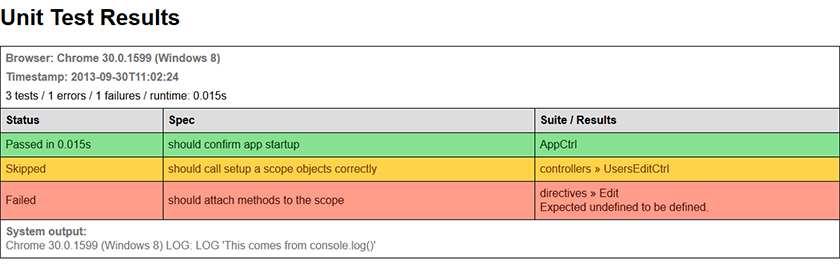
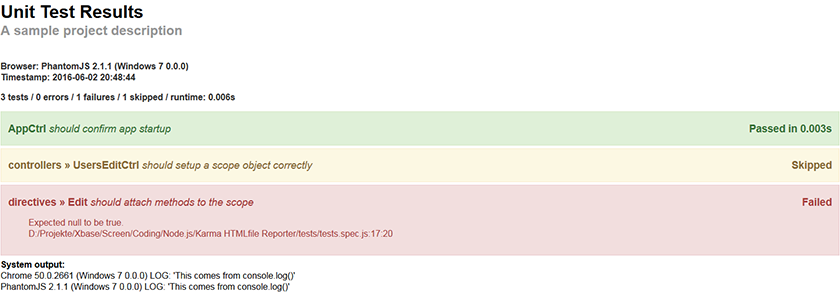
Updated Karma HTMLfile reporter

diff --git a/karma-htmlfile-reporter/units.html b/karma-htmlfile-reporter/units.html
@@ -1,155 +1,97 @@
 <!DOCTYPE html>
 <html>
-	<head>
-		<meta charset="utf-8" />
-		<title>Unit Test Results</title>
-		<style type="text/css">
-			html, body {
-				font-family:Arial,sans-serif;
-				margin:0;
-				padding:0;
-			}
-			
-			body {
-				padding:10px 40px;
-			}
-			
-			table {
-				width:100%;
-				margin-bottom:20px;
-			}
-			
-			tr.header {
-				background:#ddd;
-				font-weight:bold;
-				border-bottom:none;
-			}
-
-			td {
-				padding:7px;
-				border-top:none;
-				border-left:1px black solid;
-				border-bottom:1px black solid;
-				border-right:none;
-			}
-			
-			tr.pass td {
-				color:#003b07;
-				background:#86e191;
-			}
-			
-			tr.skip td {
-				color:#7d3a00;
-				background:#ffd24a;
-			}
-			
-			tr.fail td {
-				color:#5e0e00;
-				background:#ff9c8a;
-			}
-			
-			tr:first-child td {
-				border-top:1px black solid;
-			}
-			
-			td:last-child {
-				border-right:1px black solid;
-			}
-			
-			tr.overview {
-				font-weight:bold;
-				color:#777;
-			}
-			
-			tr.overview td {
-				padding-bottom:0px;
-				border-bottom:none;
-			}
-			
-			tr.system-out td {
-				color:#777;
-			}
-			
-			hr {
-				height:2px;
-				margin:30px 0;
-				background:#000;
-				border:none;
-			}
-		</style>
-	</head>
-
-	<body>
-		<h1>Unit Test Results</h1>
-		<table border="0" cellpadding="0" cellspacing="0">
-			<tr class="overview">
-				<td colspan="3" title="Mozilla/5.0 (Windows NT 6.2; WOW64) AppleWebKit/537.36 (KHTML, like Gecko) Chrome/30.0.1599.66 Safari/537.36">Browser: Chrome 30.0.1599 (Windows 8)</td>
-			</tr>
-			<tr class="overview">
-				<td colspan="3">Timestamp: 2013-09-30T11:02:24</td>
-			</tr>
-			<tr>
-				<td colspan="3">3 tests / 1 errors / 1 failures / runtime: 0.015s</td>
-			</tr>
-			<tr class="header">
-				<td>Status</td>
-				<td>Spec</td>
-				<td>Suite / Results</td>
-			</tr>
-			<tr class="pass">
-				<td>Passed in 0.015s</td>
-				<td>should confirm app startup</td>
-				<td>AppCtrl</td>
-			</tr>
-			<tr class="skip">
-				<td>Skipped</td>
-				<td>should call setup a scope objects correctly</td>
-				<td>controllers &raquo; UsersEditCtrl</td>
-			</tr>
-			<tr class="fail">
-				<td>Failed</td>
-				<td>should attach methods to the scope</td>
-				<td>directives &raquo; Edit<br>Expected undefined to be defined.</td>
-			</tr>
-			<tr class="system-out">
-				<td colspan="3"><strong>System output:</strong><br />Chrome 30.0.1599 (Windows 8) LOG: LOG 'This comes from console.log()'</td>
-			</tr>
-		</table>
-		<hr />
-		<table border="0" cellpadding="0" cellspacing="0">
-			<tr class="overview">
-				<td colspan="3" title="Mozilla/5.0 (Windows NT 6.2; WOW64) AppleWebKit/534.34 (KHTML, like Gecko) PhantomJS/1.9.2 Safari/534.34">Browser: PhantomJS 1.9.2 (Windows 8)</td>
-			</tr>
-			<tr class="overview">
-				<td colspan="3">Timestamp: 2013-09-30T11:02:24</td>
-			</tr>
-			<tr>
-				<td colspan="3">3 tests / 1 errors / 1 failures / runtime: 0.015s</td>
-			</tr>
-			<tr class="header">
-				<td>Status</td>
-				<td>Spec</td>
-				<td>Suite / Results</td>
-			</tr>
-			<tr class="pass">
-				<td>Passed in 0.015s</td>
-				<td>should confirm app startup</td>
-				<td>AppCtrl</td>
-			</tr>
-			<tr class="skip">
-				<td>Skipped</td>
-				<td>should call setup a scope objects correctly</td>
-				<td>controllers &raquo; UsersEditCtrl</td>
-			</tr>
-			<tr class="fail">
-				<td>Failed</td>
-				<td>should attach methods to the scope</td>
-				<td>directives &raquo; Edit<br>Expected undefined to be defined.</td>
-			</tr>
-			<tr class="system-out">
-				<td colspan="3"><strong>System output:</strong><br />Chrome 30.0.1599 (Windows 8) LOG: LOG 'This comes from console.log()'</td>
-			</tr>
-		</table>
-		<hr />
-	</body>
+  <head>
+    <meta charset="utf-8"/>
+    <title>Unit Test Results - A sample project description</title>
+    <style type="text/css">html,body{font-family:Arial,sans-serif;margin:0;padding:0;}body{padding:10px 40px;}h1{margin-bottom:0;}h2{margin-top:0;margin-bottom:0;color:#999;}table{width:100%;margin-top:20px;margin-bottom:20px;table-layout:fixed;}tr.header{background:#ddd;font-weight:bold;border-bottom:none;}td{padding:7px;border-top:none;border-left:1px black solid;border-bottom:1px black solid;border-right:none;word-break:break-all;word-wrap:break-word;}tr.pass td{color:#003b07;background:#86e191;}tr.skip td{color:#7d3a00;background:#ffd24a;}tr.fail td{color:#5e0e00;background:#ff9c8a;}tr:first-child td{border-top:1px black solid;}td:last-child{border-right:1px black solid;}tr.overview{font-weight:bold;color:#777;}tr.overview td{padding-bottom:0px;border-bottom:none;}tr.system-out td{color:#777;}hr{height:2px;margin:30px 0;background:#000;border:none;}section{margin-top:40px;}h3{margin:6px 0;}.overview{color:#333;font-weight:bold;}.system-out{margin:0.4rem 0;}.spec{padding:0.8rem;margin:0.3rem 0;}.spec--pass{color:#3c763d;background-color:#dff0d8;border:1px solid #d6e9c6;}.spec--skip{color:#8a6d3b;background-color:#fcf8e3;border:1px solid #faebcc;}.spec--fail{color:#a94442;background-color:#f2dede;border:1px solid #ebccd1;}.spec__title{display:inline;}.spec__suite{display:inline;}.spec__descrip{font-weight:normal;}.spec__status{float:right;}.spec__log{padding-left: 2.3rem;}</style>
+  </head>
+  <body>
+    <h1>Unit Test Results</h1>
+    <h2>A sample project description</h2>
+    <section>
+      <header class="overview">
+        <div class="browser">Browser: PhantomJS 2.1.1 (Windows 7 0.0.0)</div>
+        <div class="timestamp">Timestamp: 2016-06-02 20:48:44</div>
+        <p class="results">
+          3 tests / 
+          0 errors / 
+          1 failures / 
+          1 skipped / 
+          runtime: 0.006s
+        </p>
+      </header>
+      <div class="spec spec--pass">
+        <h3 class="spec__header">
+          <div class="spec__title">
+            <p class="spec__suite">AppCtrl</p>
+            <em class="spec__descrip">should confirm app startup</em>
+          </div>
+          <div class="spec__status">Passed in 0.003s</div>
+        </h3>
+      </div>
+      <div class="spec spec--skip">
+        <h3 class="spec__header">
+          <div class="spec__title">
+            <p class="spec__suite">controllers &raquo; UsersEditCtrl</p>
+            <em class="spec__descrip">should setup a scope object correctly</em>
+          </div>
+          <div class="spec__status">Skipped</div>
+        </h3>
+      </div>
+      <div class="spec spec--fail">
+        <h3 class="spec__header">
+          <div class="spec__title">
+            <p class="spec__suite">directives &raquo; Edit</p>
+            <em class="spec__descrip">should attach methods to the scope</em>
+          </div>
+          <div class="spec__status">Failed</div>
+        </h3>
+        <p class="spec__log">Expected null to be true.<br />D:/Projekte/Xbase/Screen/Coding/Node.js/Karma HTMLfile Reporter/tests/tests.spec.js:17:20<br /></p>
+      </div>
+      <div class="system-out"><strong>System output:</strong><br />Chrome 50.0.2661 (Windows 7 0.0.0) LOG: 'This comes from console.log()'
+<br />PhantomJS 2.1.1 (Windows 7 0.0.0) LOG: 'This comes from console.log()'
+</div>
+    </section>
+    <section>
+      <header class="overview">
+        <div class="browser">Browser: Chrome 50.0.2661 (Windows 7 0.0.0)</div>
+        <div class="timestamp">Timestamp: 2016-06-02 20:48:44</div>
+        <p class="results">
+          3 tests / 
+          0 errors / 
+          1 failures / 
+          1 skipped / 
+          runtime: 0.006s
+        </p>
+      </header>
+      <div class="spec spec--pass">
+        <h3 class="spec__header">
+          <div class="spec__title">
+            <p class="spec__suite">AppCtrl</p>
+            <em class="spec__descrip">should confirm app startup</em>
+          </div>
+          <div class="spec__status">Passed in 0.002s</div>
+        </h3>
+      </div>
+      <div class="spec spec--skip">
+        <h3 class="spec__header">
+          <div class="spec__title">
+            <p class="spec__suite">controllers &raquo; UsersEditCtrl</p>
+            <em class="spec__descrip">should setup a scope object correctly</em>
+          </div>
+          <div class="spec__status">Skipped</div>
+        </h3>
+      </div>
+      <div class="spec spec--fail">
+        <h3 class="spec__header">
+          <div class="spec__title">
+            <p class="spec__suite">directives &raquo; Edit</p>
+            <em class="spec__descrip">should attach methods to the scope</em>
+          </div>
+          <div class="spec__status">Failed</div>
+        </h3>
+        <p class="spec__log">Expected null to be true.<br />    at Object.&lt;anonymous&gt; (D:/Projekte/Xbase/Screen/Coding/Node.js/Karma HTMLfile Reporter/tests/tests.spec.js:17:16)<br /></p>
+      </div>
+    </section>
+  </body>
 </html>
